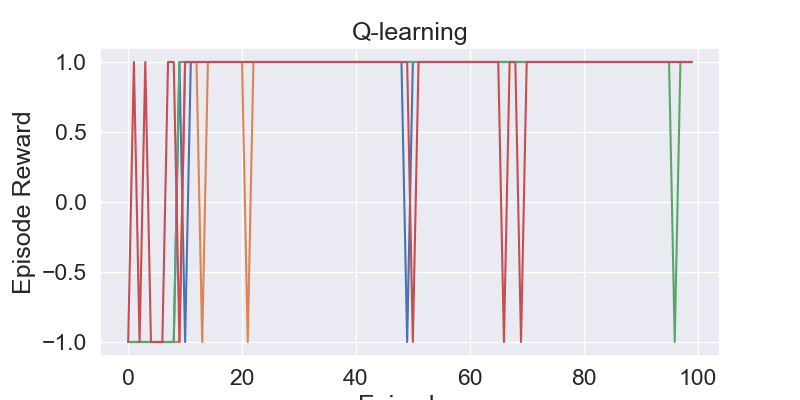
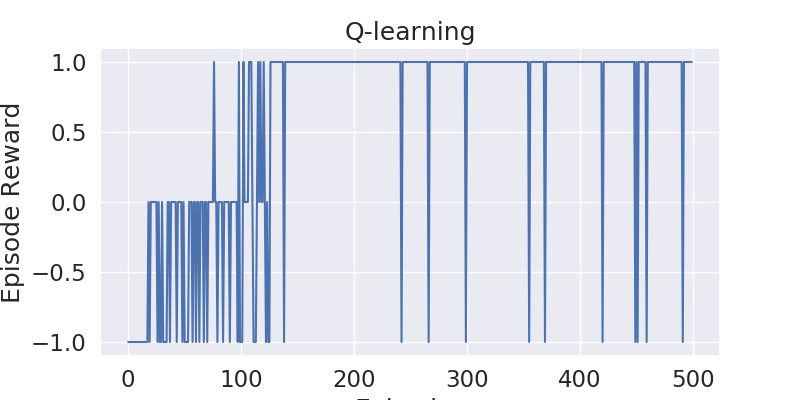
“latest”

diff --git a/ME_5406_code/contents/2_Q_Learning_maze/run_main_2.py b/ME_5406_code/contents/2_Q_Learning_maze/run_main_2.py
@@ -3,9 +3,9 @@ Reinforcement learning maze example.
 """
 # from algorithms import *
 import copy as cp
-
 import numpy as np
 # from RL_brain import QLearningTable
+
 from all_algorithms import *
 from frozen_lake_env import Frozen_lake
 from result_analysis import *
@@ -33,7 +33,7 @@ def run(RL, env, algorithm_name=None, numEpisode=10, max_epsilon=0.98):
 
         epi_reward = 0.0
         epi_num_steps = 0
-        while epi_num_steps < 200:
+        while epi_num_steps < 400:
             # fresh env
             env.render()
 
@@ -101,7 +101,7 @@ if __name__ == "__main__":
     para_name = "_discount_rate_"
     parameter_list = parameters_discount_rate
 
-    run_plot = False
+    run_plot = True
     if run_plot == True:
     # ++++++++++++++++++++++++++++++++++++++++++++++++++++++++++++++++++++++++
         for para in parameter_list:
@@ -141,7 +141,7 @@ if __name__ == "__main__":
     
             reward, num_steps, value = run(RL, env, algorithm_name=algorithm,
                                            numEpisode=500,
-                                           max_epsilon=parameter_list[0])
+                                           max_epsilon=parameters_epsilon[1])
             reward_list.append(cp.deepcopy(reward))
             num_steps_list.append(cp.deepcopy(num_steps))
             value_list.append(cp.deepcopy(value))

diff --git a/ME_5406_code/contents/2_Q_Learning_maze/all_algorithms.py b/ME_5406_code/contents/2_Q_Learning_maze/all_algorithms.py
@@ -86,9 +86,9 @@ class SarsaTable(RL):
         # q_predict
         q_predict = self.Q_value[s, a]
         if done:
-            q_target = r + self.gamma * self.Q_value[s_, a_]  # next state is not terminal
-        else:
             q_target = r  # next state is terminal
+        else:
+            q_target = r + self.gamma * self.Q_value[s_, a_]  # next state is not terminal
         self.Q_value[s, a] += self.lr * (q_target - q_predict)  # update
 
 
@@ -106,11 +106,11 @@ class ExpectSarsaTable(RL):
         # q_predict
         q_predict = self.Q_value[s, a]
         if done:
-            # next state is not terminal
-            q_target = r + self.gamma * np.sum(self.Q_value[s_, :])
-        else:
             # next state is terminal
             q_target = r
+        else:
+            # next state is not terminal
+            q_target = r + self.gamma * np.sum(self.Q_value[s_, :])
         # update based on TD
         self.Q_value[s, a] += self.lr * (q_target - q_predict)
 
